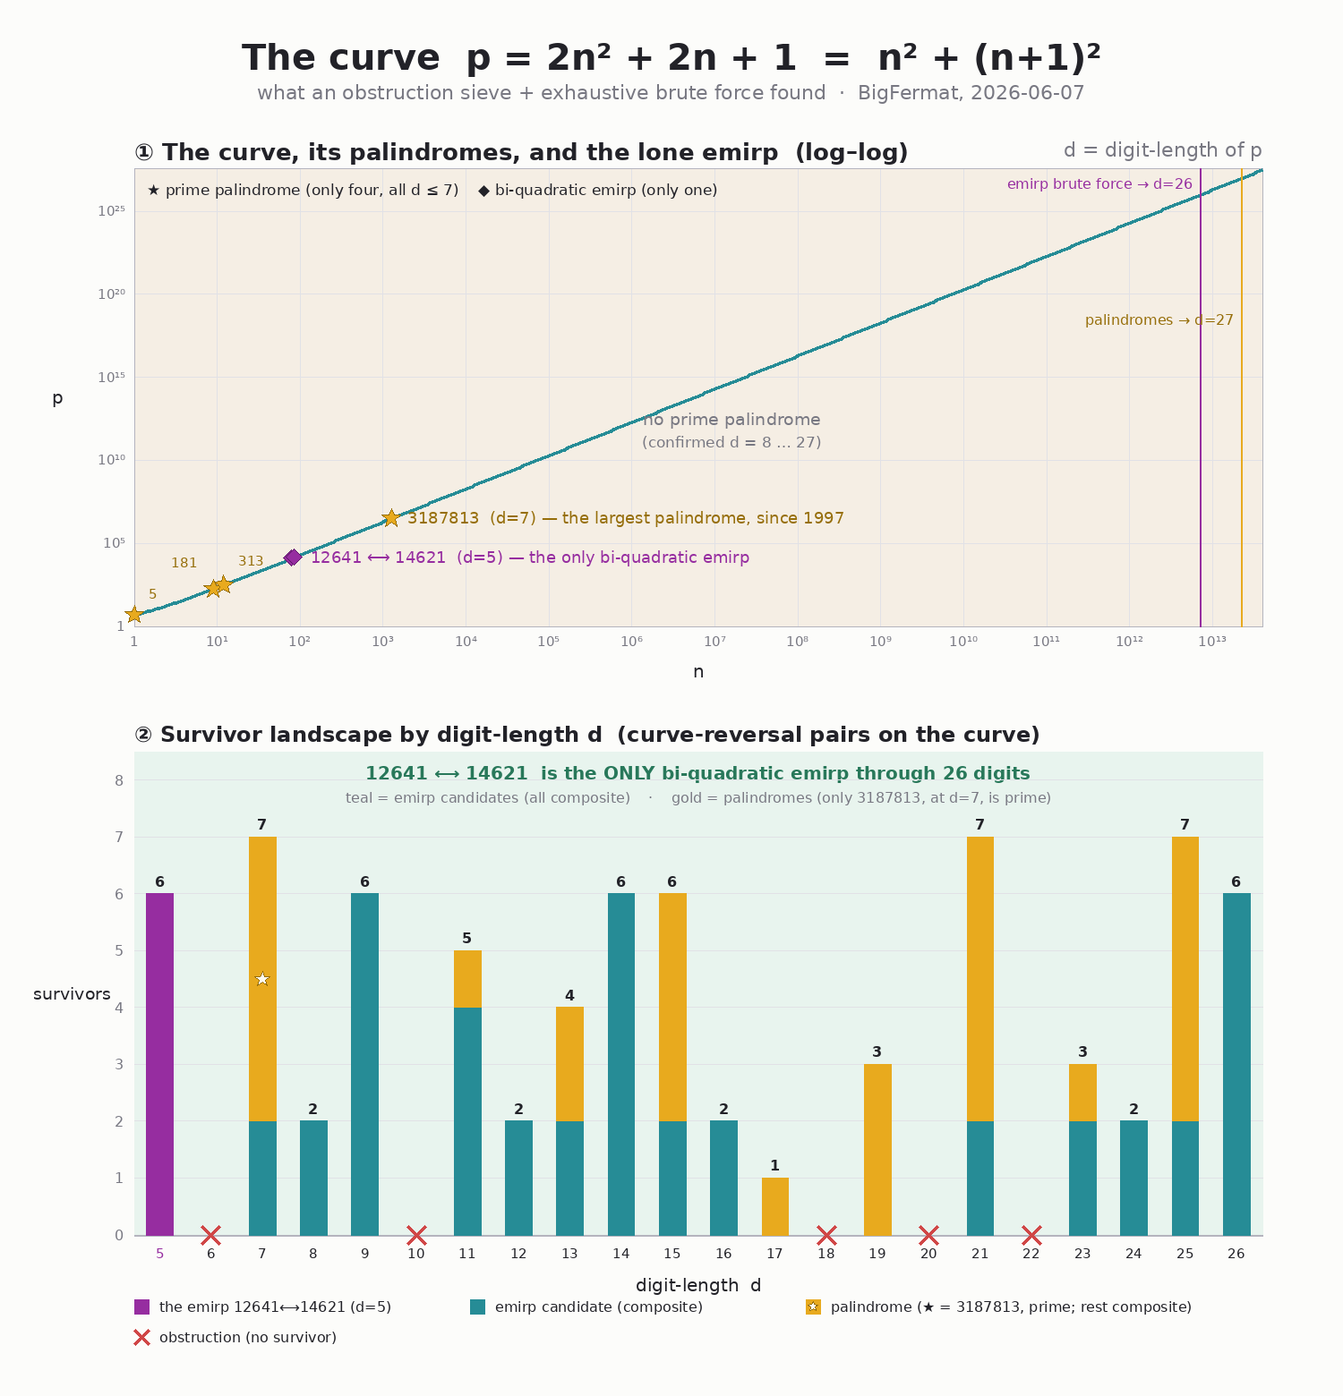
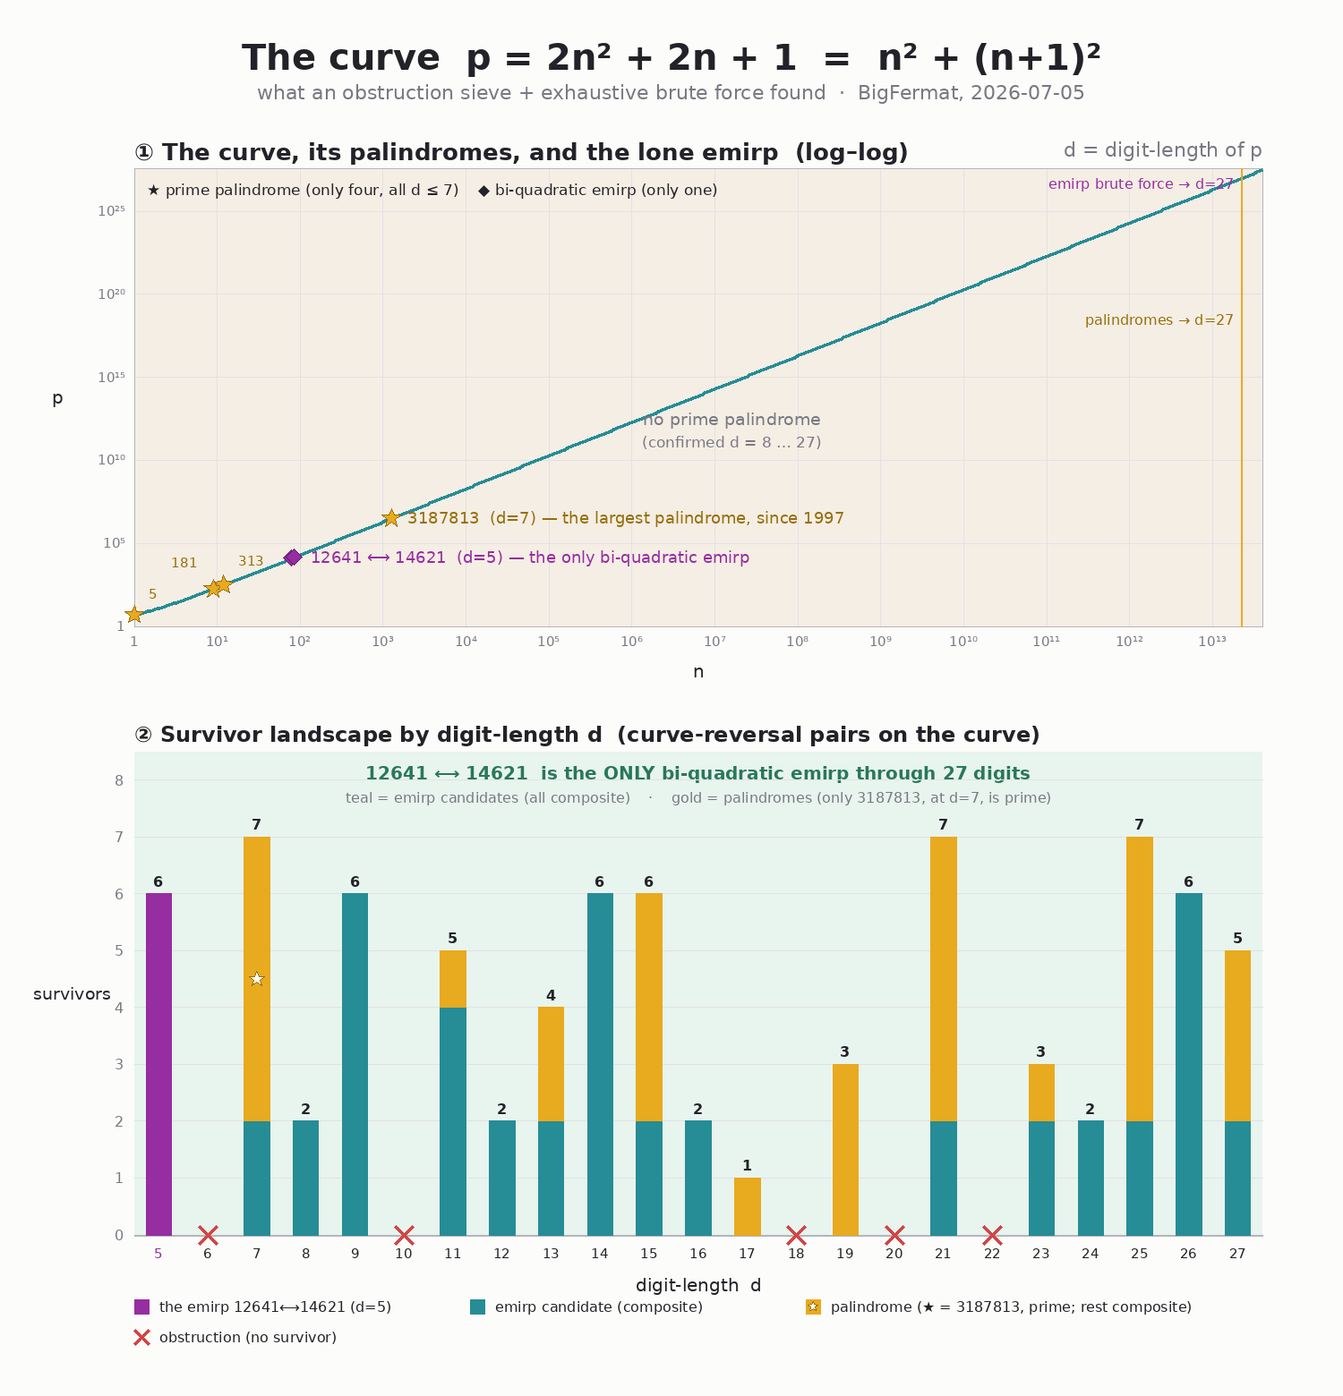
d27: close emirp frontier at d=27; verify palindromes composite; credit qs
hunt.c d=27 complete (120.3h, EMIRPS=0): the only bi-quadratic emirp
through 27 digits remains 12641<->14621. Its 3 palindromic survivors
factored composite via Michel Leonard's qs (certificates in pals.txt,
product-verified) -- corroborating palhunt_gmp's found=0 at d=27 with a
second tool. Both frontiers now coincide at d=27; palindrome conjecture
holds. Docs, landscape figure, and runbook updated; add CREDITS.md.

Changed region(s): [[0.1533, 0.5846, 0.9507, 0.8923], [0.7667, 0.1231, 0.92, 0.1538]]

diff --git a/generate_graph.py b/generate_graph.py
@@ -14,7 +14,7 @@ emirp_pts = [(79, 12641), (85, 14621)]
 # only PRIMES are the d=5 emirp (12641<->14621) and the d=7 palindrome 3187813.
 landscape = [(5,6,0),(6,0,0),(7,2,5),(8,2,0),(9,6,0),(10,0,0),(11,4,1),(12,2,0),
              (13,2,2),(14,6,0),(15,2,4),(16,2,0),(17,0,1),(18,0,0),(19,0,3),(20,0,0),
-             (21,2,5),(22,0,0),(23,2,1),(24,2,0),(25,2,5),(26,6,0)]
+             (21,2,5),(22,0,0),(23,2,1),(24,2,0),(25,2,5),(26,6,0),(27,2,3)]
 EMIRP_D = 5    # the d=5 emirp 12641<->14621 lives in the candidate segment here
 
 # ---------- canvas ----------
@@ -44,7 +44,7 @@ def text(x,y,s,fnt,fill=INK,anchor="la"):
 
 # ================= header =================
 text(W/2, 40, "The curve  p = 2n² + 2n + 1  =  n² + (n+1)²", FB(40), INK, "ma")
-text(W/2, 90, "what an obstruction sieve + exhaustive brute force found  ·  BigFermat, 2026-06-07",
+text(W/2, 90, "what an obstruction sieve + exhaustive brute force found  ·  BigFermat, 2026-07-05",
      F(22), MUT, "ma")
 
 # ================= PANEL A : the curve, log-log =================
@@ -58,8 +58,9 @@ xlo,xhi = 0,13.6; ylo,yhi = 0,27.6
 def AX(lx): return ax_l + (lx-xlo)/(xhi-xlo)*(ax_r-ax_l)
 def AY(ly): return A_b - (ly-ylo)/(yhi-ylo)*(A_b-A_t)
 
-# frontier shading — emirp brute force through d=26 (n ~ 7e12, log ~ 12.85)
-LXF = 12.85
+# frontier shading — brute force through d=27 (n ~ 2.24e13, log ~ 13.35);
+# emirp and palindrome frontiers now coincide at this ceiling
+LXF = 13.35
 d.rectangle([AX(0),A_t,ax_r,A_b], fill=FRONT)
 # gridlines
 for gx in range(0,14,1):
@@ -83,7 +84,7 @@ d.line(pts, fill=TEAL, width=4)
 
 # frontier line + label
 d.line([AX(LXF),A_t,AX(LXF),A_b], fill=EMR, width=2)
-text(AX(LXF)-8, A_t+8, "emirp brute force → d=26", F(16), EMR, "ra")
+text(AX(LXF)-8, A_t+8, "emirp brute force → d=27", F(16), EMR, "ra")
 # palindrome frontier line + label (gold, at d=27 ceiling)
 LXP = 13.35
 d.line([AX(LXP),A_t,AX(LXP),A_b], fill=GOLD, width=2)
@@ -129,7 +130,7 @@ B_t, B_b = 840, 1380
 bx_l, bx_r = 150, W-90
 text(bx_l, B_t-34, "② Survivor landscape by digit-length d  (curve-reversal pairs on the curve)", FB(24), INK,"la")
 
-dmin,dmax = 5,26; ymax=8.5
+dmin,dmax = 5,27; ymax=8.5
 def BX(dd):
     # centered columns
     span=(bx_r-bx_l); step=span/(dmax-dmin+1)
@@ -138,10 +139,10 @@ def BY(c): return B_b - c/ymax*(B_b-B_t)
 step=(bx_r-bx_l)/(dmax-dmin+1)
 
 # result band + subtitle (clear zone above the tallest bar, total<=7)
-d.rectangle([BX(5)-step/2, B_t, BX(26)+step/2, B_b], fill=BAND)
-text((BX(5)+BX(26))/2, B_t+12,
-     "12641 ⟷ 14621  is the ONLY bi-quadratic emirp through 26 digits", FB(20), (40,120,90), "ma")
-text((BX(5)+BX(26))/2, B_t+42,
+d.rectangle([BX(5)-step/2, B_t, BX(27)+step/2, B_b], fill=BAND)
+text((BX(5)+BX(27))/2, B_t+12,
+     "12641 ⟷ 14621  is the ONLY bi-quadratic emirp through 27 digits", FB(20), (40,120,90), "ma")
+text((BX(5)+BX(27))/2, B_t+42,
      "teal = emirp candidates (all composite)    ·    gold = palindromes (only 3187813, at d=7, is prime)",
      F(16), MUT, "ma")
 

diff --git a/docs/STATE_OF_THE_SEARCH.md b/docs/STATE_OF_THE_SEARCH.md
@@ -4,9 +4,9 @@
 > rare kinds of prime. This document is the honest summary of where the search
 > stands, what is *proven*, what is *believed*, and why it stops where it stops.
 >
-> **Status (2026-06-07):** emirps brute-confirmed **through d = 26**; prime
-> palindromes brute-confirmed **through d = 27**. Search complete at the agreed
-> frontiers.
+> **Status (2026-07-05):** emirps brute-confirmed **through d = 27**; prime
+> palindromes brute-confirmed **through d = 27**. Both frontiers now coincide at
+> d = 27 — the earlier 26-vs-27 mismatch is closed. Search complete.
 
 ---
 
@@ -34,11 +34,11 @@ candidates before any primality test.
 
 ## 2. Results — proven by exhaustion
 
-### Bi-quadratic emirps: exactly one, through d = 26
+### Bi-quadratic emirps: exactly one, through d = 27
 
 **`12641 ⟷ 14621` (d = 5; `79²+80² ⟷ 85²+86²`, both prime) is the only
-bi-quadratic emirp through 26 digits.** Established by exhaustive `hunt.c` (every
-n, GMP-exact); `EMIRPS = 0` for every d = 6…26, cross-checked against the modular
+bi-quadratic emirp through 27 digits.** Established by exhaustive `hunt.c` (every
+n, GMP-exact); `EMIRPS = 0` for every d = 6…27, cross-checked against the modular
 sieve. Representative tail of the brute log:
 
 ```
@@ -46,9 +46,16 @@ d=23  range=152,896,119,631  raw=3  prime-eligible=2  EMIRPS=0
 d=24  range=483,499,983,437  raw=2  prime-eligible=0  EMIRPS=0
 d=25  range=1,528,961,196,313 raw=7 prime-eligible=4  EMIRPS=0   [13.3 h]
 d=26  range=4,834,999,834,365  raw=6 prime-eligible=2  EMIRPS=0   [53.9 h]
+d=27  range=15,289,611,963,133 raw=5 prime-eligible=3 EMIRPS=0   [120.3 h]
 ```
 
-Every curve-reversal survivor through d = 26 has `p` and/or `q` composite, except
+The d = 27 run (completed 2026-07-05, ~5.0 days) is the gap-closing run that
+brought the emirp frontier up to the palindrome one. Its 5 raw survivors are
+3 palindromic curve-values (all composite — see below) plus one reciprocal
+non-palindrome pair (`n=9654578976541 ↔ n=16495551105259`, p/q swapped), not an
+emirp.
+
+Every curve-reversal survivor through d = 27 has `p` and/or `q` composite, except
 the d = 5 emirp itself. True obstructions (no survivor of any kind): d = 6, 10,
 18, 20, 22. Full landscape: [`PROJECT_OVERVIEW.md`](PROJECT_OVERVIEW.md).
 
@@ -62,8 +69,10 @@ The **only** prime palindromes on the curve through **27 digits** are
 **5, 181, 313, 3187813** — all ≤ 7 digits. Confirmed by `palhunt_gmp` (every n,
 GMP-certified): `found = 0` for d = 8…27 (even d are trivially 0 — divisible by 11
 — so the genuine tests are the odd d = 9, 11, …, 27, all empty). d = 27 cleared a
-range of 15,289,611,963,133 n-values in ~22.3 h. The standing conjecture (Jim,
-since ~1997):
+range of 15,289,611,963,133 n-values in ~22.3 h. **Independently corroborated at
+d = 27 by the emirp brute `hunt.c`**, which flagged exactly 3 palindromic
+curve-values there — all three factored composite by quadratic sieve, so
+`found = 0` now stands from two unrelated tools. The conjecture (Jim, since ~1997):
 
 > **3187813 is the largest prime palindrome on the curve.**
 
@@ -73,13 +82,13 @@ Now confirmed 20 digits past where it was first found.
 
 ## 3. What is proven vs. what is believed (the honesty line)
 
-- **Brute-verified (two independent tools):** emirps to d = 26, palindromes to
+- **Brute-verified (two independent tools):** emirps and palindromes both to
   d = 27 — `hunt.c` (`EMIRPS = 0`) and `palhunt_gmp` (`found = 0`). This is the
   hard floor of the result.
 - **Rests on `cvpipe`'s own logs (not yet brute-verified):** anything beyond the
   brute frontier. The fast pipeline ran further (a verified d = 24 run exists and
-  cross-checks the brute tools), but d = 26 is the brute-force ceiling for emirps.
-  The agreed stopping points sit exactly at the brute-verified floor; nothing is
+  cross-checks the brute tools), but d = 27 is the brute-force ceiling for both
+  objects. The stopping point sits exactly at the brute-verified floor; nothing is
   promoted beyond that.
 
 ---
@@ -108,7 +117,7 @@ A coin-flip density argument:
 - **Bi-quadratic emirps are expected to be *finite*** — expected count ≈ `C/d²`
   per length; the sum converges, with an **expected total ≈ 1 across all
   integers.** That a single emirp (`12641 ⟷ 14621`) exists and no other has
-  appeared through 26 digits is exactly what "expected total ≈ 1" predicts.
+  appeared through 27 digits is exactly what "expected total ≈ 1" predicts.
 - **Prime palindromes may be *infinite*** — expected count ≈ `C′/d`; the sum
   diverges. So the conjecture "3187813 is the last" is the *interesting* claim:
   the heuristic does **not** guarantee it, which is precisely why it's worth
@@ -125,12 +134,14 @@ This is a **resource boundary, not a mathematical one.** Each additional digit i
 ~3.2× the compute of the last; the heuristic says the expected yield beyond the
 known results is ≈ 0 (emirps) and the palindrome conjecture has held 20 digits
 deep. Burning weeks of CPU per digit for a near-certain null is not where the
-interest lives. So the agreed final frontiers are:
+interest lives. So the final frontiers — now aligned at the same digit — are:
 
-- **Emirps: d = 26** (done) — then stop.
+- **Emirps: d = 27** (done) — then stop.
 - **Palindromes: d = 27** (done) — then stop.
 
-The capstone rests on the brute-verified floor plus the convergent heuristic. No
+The emirp side was originally to stop at d = 26; the d = 27 run was the deliberate
+gap-closing pass so both objects share one honest frontier. The capstone rests on
+the brute-verified floor plus the convergent heuristic. No
 overclaim of a proof that doesn't exist; no pretense that the wall is anything but
 a wall.
 
@@ -154,9 +165,10 @@ search is compute. **If the economics change, the hunt reopens:**
   [`skip_optimization.md`](skip_optimization.md) for the math, full history
   (the same table existed in the 2010 original code and was lost in the GMP
   refactor), and the mixed-binary footnote for the d=27 run.
-- **Where to resume:** emirp frontier **d = 26**, palindrome frontier **d = 27**.
-  Pick up at the next digit.
-- **What's still open:** does a second bi-quadratic emirp exist at any d ≥ 27? Is
+- **Where to resume:** both frontiers at **d = 27**. Next genuine tests: the next
+  emirp digit is **d = 28**; the next genuine palindrome digit is **d = 29** (d =
+  28 is even → trivially 0 by the ÷11 rule).
+- **What's still open:** does a second bi-quadratic emirp exist at any d ≥ 28? Is
   3187813 truly the last prime palindrome? Both are *unproven* — only unobserved.
 
 ---

diff --git a/README.md b/README.md
@@ -13,8 +13,8 @@ primes in Fermat's two-square theorem (the primes ≡ 1 mod 4). Hence the name.
 That consecutive-squares structure pins every value to one of just six two-digit
 endings — `{01, 13, 21, 41, 61, 81}` (and, reversed, six leading patterns
 `{10, 12, 14, 16, 18, 31}`). It's the cheap first/last-digit **filter that discards
-≈ 89% of `p`/`q` candidates instantly (~9× speedup) — roughly 6.29 trillion of the
-~7.07 trillion candidates through 26 digits — before any primality test** — a
+≈ 89% of `p`/`q` candidates instantly (~9× speedup) — roughly 19.9 trillion of the
+~22.4 trillion candidates through 27 digits — before any primality test** — a
 [proof by construction](docs/ending_constraint_proof.md).
 
 ![The curve and its findings: prime palindromes cluster at small d; the emirp obstruction landscape](docs/biquad_curve_landscape.png)
@@ -27,7 +27,7 @@ endings — `{01, 13, 21, 41, 61, 81}` (and, reversed, six leading patterns
   `q = rev(p)` is **also** prime **and also** of the form `2m²+2m+1`,
   with `q ≠ p`. Both ends prime, both on the same quadratic curve —
   that is what "bi-quadratic" means: two numbers, one curve. **Exactly
-  one is known: `12641 ⟷ 14621` (d=5) — the only one through 26 digits.**
+  one is known: `12641 ⟷ 14621` (d=5) — the only one through 27 digits.**
 - **Prime palindrome on the curve** — a prime `p = 2n²+2n+1` that reads the same
   forwards and backwards. Four are known: **5, 181, 313, 3187813**.
 
@@ -38,31 +38,34 @@ These two searches turn out to be **the same sieve**: a palindrome is just the
 
 ## Results
 
-### `12641 ⟷ 14621` is the only bi-quadratic emirp through 26 digits
+### `12641 ⟷ 14621` is the only bi-quadratic emirp through 27 digits
 
 There is exactly **one** bi-quadratic emirp in this range — `12641 ⟷ 14621`
 (d=5; `79²+80² ⟷ 85²+86²`, both prime). Established by exhaustive `hunt.c` brute
-force (every n, GMP-exact, d=5–26), cross-checked against the modular sieve:
+force (every n, GMP-exact, d=5–27), cross-checked against the modular sieve:
 
 ```
 d = 5                          : EMIRP — 12641 ⟷ 14621  (both prime, both on curve)   ← the only one
 d = 6, 10, 18, 20, 22          : OBSTRUCTION — no curve-reversal survivor at all
 d = 17, 19                     : only palindromic survivors → no emirp candidate
-d = 7,8,9,11–16,21,23–26       : emirp candidates exist, all composite → no emirp
+d = 7,8,9,11–16,21,23–27       : emirp candidates exist, all composite → no emirp
 ```
 
 (An "emirp candidate" is a *non-palindrome* `n` with both `p` and `rev(p)` on the
 curve; palindromes — including the prime `3187813` — are a separate object, shown
 in gold in the figure.) Apart from `12641 ⟷ 14621`, every emirp candidate through
-26 digits has `p` and/or `q` composite. So `12641 ⟷ 14621` is the smallest — and,
-so far, the **only** — bi-quadratic emirp. The next one, if any, has **≥ 27 digits**.
+27 digits has `p` and/or `q` composite. So `12641 ⟷ 14621` is the smallest — and,
+so far, the **only** — bi-quadratic emirp. The next one, if any, has **≥ 28 digits**.
 
 ### Prime palindromes: a 27-year conjecture
 
 The **only** prime palindromes on the curve through **27 digits** — confirmed
 exhaustively — are **5, 181, 313, 3187813**, all at ≤ 7 digits. (d ≤ 21 via the
 modular sieve; **d = 8…27 independently re-confirmed by a direct GMP-certified hunt**
-— `palhunt_gmp`, every n, all `found = 0`.) The standing conjecture (Jim, since ~1997):
+— `palhunt_gmp`, every n, all `found = 0`.) At d = 27 the emirp brute (`hunt.c`)
+independently corroborates this: it flags exactly **3** palindromic values, all
+composite (verified by quadratic sieve) — so `found = 0` stands from a second,
+unrelated tool. The standing conjecture (Jim, since ~1997):
 
 > **3187813 is the largest prime palindrome on the curve.**
 
@@ -73,7 +76,7 @@ Two roads were rigorously **ruled out** by measurement (see
 
 - **No faster search.** A meet-in-the-middle attack gives no √-speedup — the
   digit-reversal of a quadratic entangles the middle digits irreducibly. Search
-  is **~10^(d/2)-bound** (brute force reaches ~d=26).
+  is **~10^(d/2)-bound** (brute force reaches ~d=27).
 - **No congruence proof.** A sweep of 50 base-aligned / 2-power / 5-power moduli
   found **zero** obstructions: the real obstructions are *non-congruential*
   (sporadic). A non-existence theorem, if any, needs new mathematics.
@@ -162,6 +165,16 @@ development history.
   precision big integer multiplication in C (`__uint128_t` and schoolbook).
 - [bigdec2hex](https://github.com/scurvyhund/bigdec2hex) — arbitrary-
   precision decimal-to-hexadecimal converter.
+
+---
+
+## Acknowledgements
+
+- **[C-Quadratic-Sieve](https://github.com/michel-leonard/C-Quadratic-Sieve)**
+  by Michel Léonard — a self-contained, public-domain SIQS integer factorizer.
+  Used here to certify the compositeness of large candidate values (the three
+  d=27 palindromic curve-values were all shown composite this way). Full note:
+  [`CREDITS.md`](CREDITS.md).
 
 ---
 

diff --git a/docs/PROJECT_OVERVIEW.md b/docs/PROJECT_OVERVIEW.md
@@ -6,14 +6,14 @@
 > ⚠ **CORRECTION 2026-06-05:** a bi-quadratic emirp **does exist** — `12641 ⟷
 > 14621` at **d=5** (verified by `hunt.c`: `EMIRPS=2`). The old "no emirp ≤ 22
 > digits" headline was wrong (a prose misread of the small-d sieve output). The
-> corrected result: **`12641 ⟷ 14621` is the ONLY bi-quadratic emirp through 26
+> corrected result: **`12641 ⟷ 14621` is the ONLY bi-quadratic emirp through 27
 > digits** (brute-verified, every n). See [`session_2026-06-05_emirp_d5_correction.md`](session_2026-06-05_emirp_d5_correction.md).
 > Note on metrics: a curve-reversal "survivor" splits into **emirp candidates**
 > (non-palindrome) + **palindromes** (`p=rev(p)`). The README figure and the table
 > below show the raw total, split by colour. `check_survivors.c` correctly counts
 > the emirp-candidate (non-palindrome) part; `hunt.c`'s raw count is the total —
 > both are right (check_survivors overflows 64-bit at d≥19 → use hunt.c there). Of
-> ALL these survivors through d=26, only two are prime: the d=5 emirp and 3187813.
+> ALL these survivors through d=27, only two are prime: the d=5 emirp and 3187813.
 
 ---
 
@@ -297,10 +297,10 @@ purple = the d=5 emirp, teal = emirp candidates (composite), gold = palindromes
 `generate_graph.py`.*
 
 ```
-d:     5  6  7  8  9 10 11 12 13 14 15 16 17 18 19 20 21 22 23 24 25 26
-cand:  6* 0  2  2  6  0  4  2  2  6  2  2  0  0  0  0  2  0  2  2  2  6   emirp candidates (non-pal)
-pal:   0  0  5  0  0  0  1  0  2  0  4  0  1  0  3  0  5  0  1  0  5  0   palindromes (gold)
-raw:   6  0  7  2  6  0  5  2  4  6  6  2  1  0  3  0  7  0  3  2  7  6   total (hunt.c)
+d:     5  6  7  8  9 10 11 12 13 14 15 16 17 18 19 20 21 22 23 24 25 26 27
+cand:  6* 0  2  2  6  0  4  2  2  6  2  2  0  0  0  0  2  0  2  2  2  6  2   emirp candidates (non-pal)
+pal:   0  0  5  0  0  0  1  0  2  0  4  0  1  0  3  0  5  0  1  0  5  0  3   palindromes (gold)
+raw:   6  0  7  2  6  0  5  2  4  6  6  2  1  0  3  0  7  0  3  2  7  6  5   total (hunt.c)
                                                        (* d=5 cand holds the EMIRP)
 
   d = 5                : EMIRP — 12641 ⟷ 14621 (the ONLY bi-quadratic emirp)
@@ -318,7 +318,7 @@ obstructions (no survivor of any kind) sit at **{6, 10, 18, 20, 22}**. The trend
 toward **no *further* bi-quadratic emirp** is strong (density heuristic: expected
 total ≈ 1), consistent with `12641 ⟷ 14621` being the only one that exists.
 
-### The hunt (exhaustive brute force, d=5–26) — `hunt.c`
+### The hunt (exhaustive brute force, d=5–27) — `hunt.c`
 
 `hunt.c` directly enumerates **every** `n`, forms `q = rev(p)`, and tests exactly:
 is `q` on the curve (`2q−1` a perfect square)? are `p`, `q` both prime? `q ≠ p`?
@@ -328,12 +328,13 @@ but counts only the **non-palindrome** emirp candidates (the teal part); `hunt.c
 accounted for; check_survivors only overflows 64-bit at d≥19 → use hunt.c past there.
 
 **Result: `EMIRPS = 2` at d=5** (the pair 12641↔14621, counted both directions);
-**`EMIRPS = 0` for every d = 6 … 26.** Every other emirp candidate has `q`
+**`EMIRPS = 0` for every d = 6 … 27.** Every other emirp candidate has `q`
 exactly on the curve yet `p` and/or `q` composite (Miller–Rabin, 40 rounds).
 
-**→ `12641 ⟷ 14621` (d=5) is the ONLY bi-quadratic emirp through 26 digits.**
-Exhaustively verified by brute force for d=5–26 (search complete at agreed frontier).
-The next emirp, if any, has **d ≥ 27**. The density heuristic (Σ C/d² → expected total ≈ 1) is
+**→ `12641 ⟷ 14621` (d=5) is the ONLY bi-quadratic emirp through 27 digits.**
+Exhaustively verified by brute force for d=5–27 (d=27 completed 2026-07-05, ~5.0
+days; the gap-closing run that lifted the emirp frontier to the palindrome one).
+The next emirp, if any, has **d ≥ 28**. The density heuristic (Σ C/d² → expected total ≈ 1) is
 consistent with it being the only one that exists.
 
 **Cost note:** exact enumeration costs ~`range/mod` work per residue, so pushing
@@ -352,7 +353,7 @@ post-cliff tail.
 3. **The central question:** do obstructions become *total* for all large `d`
    (→ non-existence of bi-quadratic emirps), or do prime-eligible candidates
    persist? **Status:** search is `~10^(d/2)`-bound (brute force `hunt.c` reaches
-   ~d=26), and a faster search (MITM) *and* a congruence non-existence proof have
+   ~d=27), and a faster search (MITM) *and* a congruence non-existence proof have
    both been rigorously **ruled out** — see [`structural_attacks_2026-06-04.md`](structural_attacks_2026-06-04.md).
    A density heuristic predicts emirps are *finite* (≈`C/d²`, sum converges);
    a theorem, if any, needs new mathematics.

diff --git a/CREDITS.md b/CREDITS.md
@@ -1,0 +1,42 @@
+# Credits — third-party tools
+
+## C-Quadratic-Sieve (SIQS) — Michel Léonard
+
+- **Project:** C-Quadratic-Sieve — a Self-Initializing Quadratic Sieve
+  (SIQS) integer factorizer written in C.
+- **Author:** Michel Léonard.
+- **Repository:** https://github.com/michel-leonard/C-Quadratic-Sieve
+- **License:** released into the public domain by the author ("as is,"
+  no warranty). Stated in the project README; there is no separate
+  LICENSE file, so this is an informal public-domain dedication. No
+  attribution is legally required — this credit is given by choice.
+
+### How we use it
+
+We use `qs` to **factor** large candidate values `p = 2n²+2n+1` from the
+hunt. Specifically, at d = 27 the emirp brute (`hunt.c`) flagged three
+palindromic curve-values that passed the composite sieve; `qs` factored
+all three, proving each **composite** (see `pals.txt`). This is the
+deciding primality step the fast engines cannot supply on their own.
+
+### Why we trust the result
+
+A quadratic sieve's **composite** verdict is self-certifying: it returns
+the actual factors, and `factor₁ × factor₂ = p` with both factors > 1 is
+a checkable **certificate of compositeness** — independently verifiable
+with any big-integer multiply, no trust in the sieve's internals needed.
+(This is categorically stronger than a probabilistic "probably prime.")
+
+The tool itself is also high quality: self-contained C99 with no external
+dependencies, built from the author's own separately-tested primitives
+(a `cint` big-integer library and an AVL-tree module), CI-tested across
+size tiers, Valgrind-clean, and capable of RSA-100-class inputs — far
+beyond the 27-digit numbers we hand it. Longstanding, actively maintained.
+
+### Attribution notes
+
+- Michel Léonard's `qs` has been used and updated over several years in
+  this project's workflow; this file records the debt explicitly.
+- If a formal citation is ever wanted, cite: Michel Léonard,
+  *C-Quadratic-Sieve* (SIQS), public domain,
+  https://github.com/michel-leonard/C-Quadratic-Sieve.

diff --git a/docs/OPEN_PROBLEM.md b/docs/OPEN_PROBLEM.md
@@ -46,7 +46,7 @@ both prime, both on the curve, mutual digit-reversals. It has 5 digits.
 > **Open question.** Is 12641 ⟷ 14621 the *only* bi-quadratic emirp?
 
 **Evidence.** An exhaustive search (enumerate every n, form p, reverse,
-test all four conditions) finds no other example through 26 decimal
+test all four conditions) finds no other example through 27 decimal
 digits, with an independent modular-obstruction sieve confirming the
 same "no candidate of any kind" obstruction. The result has been
 cross-validated four ways (two independent brute forces in different
